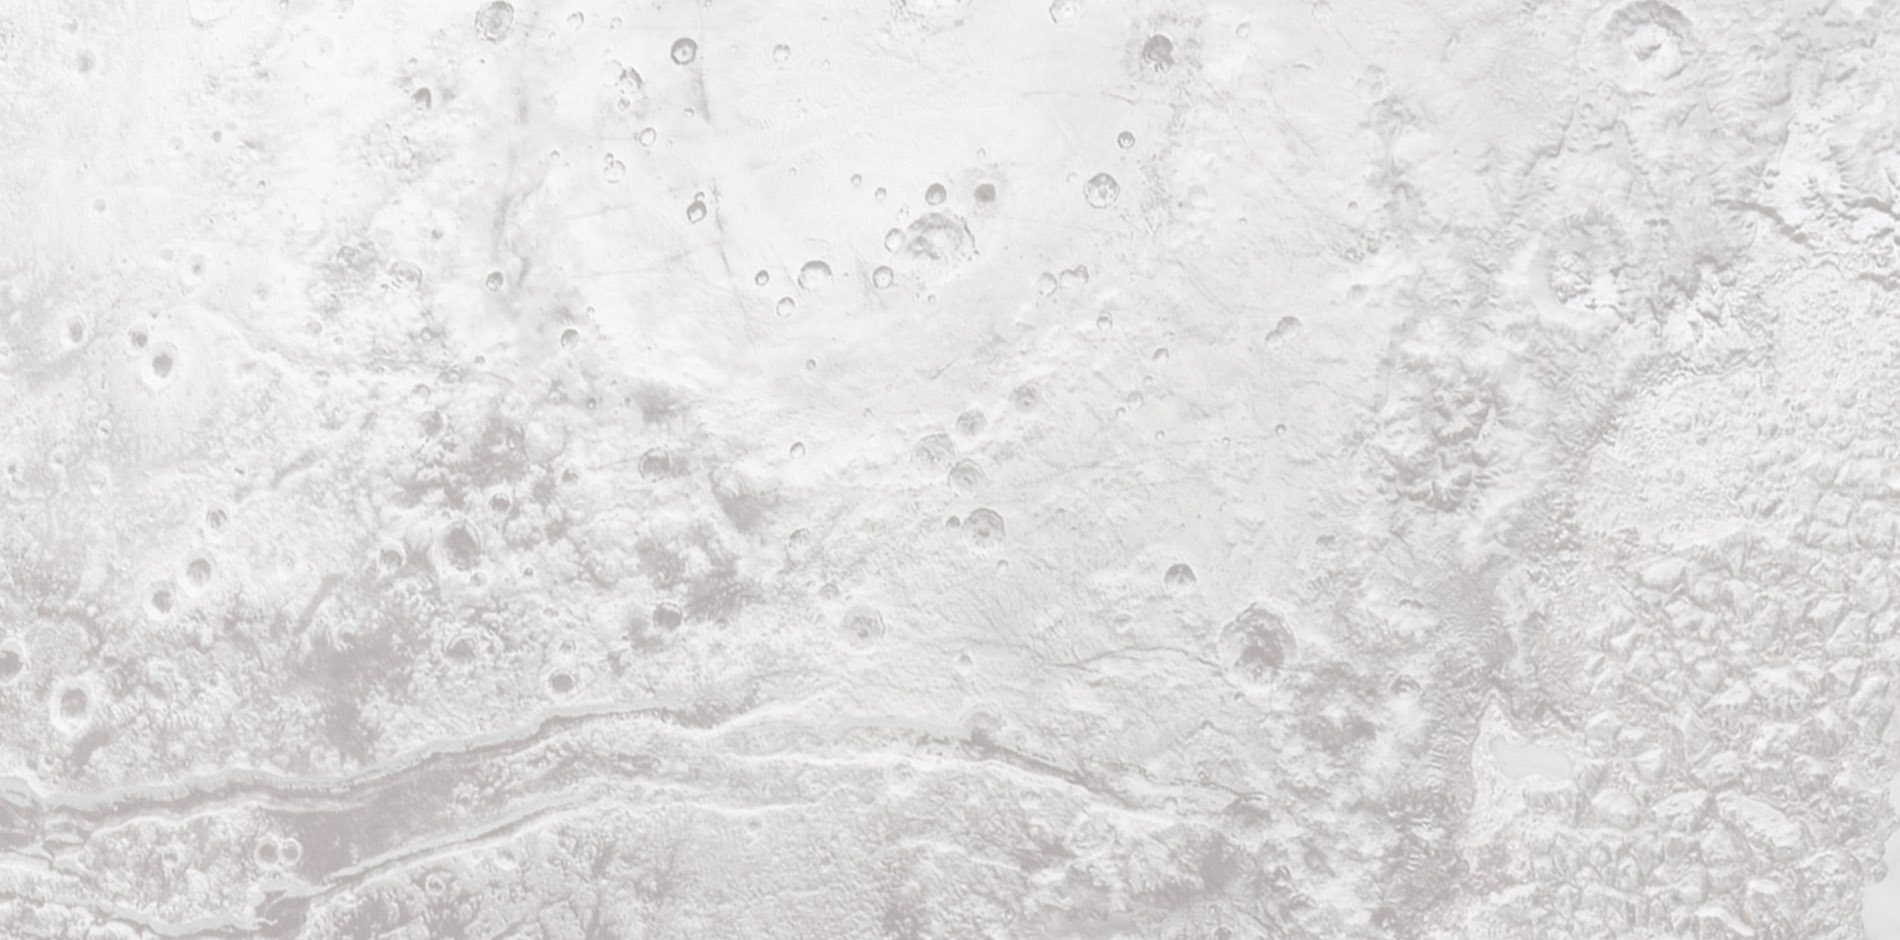
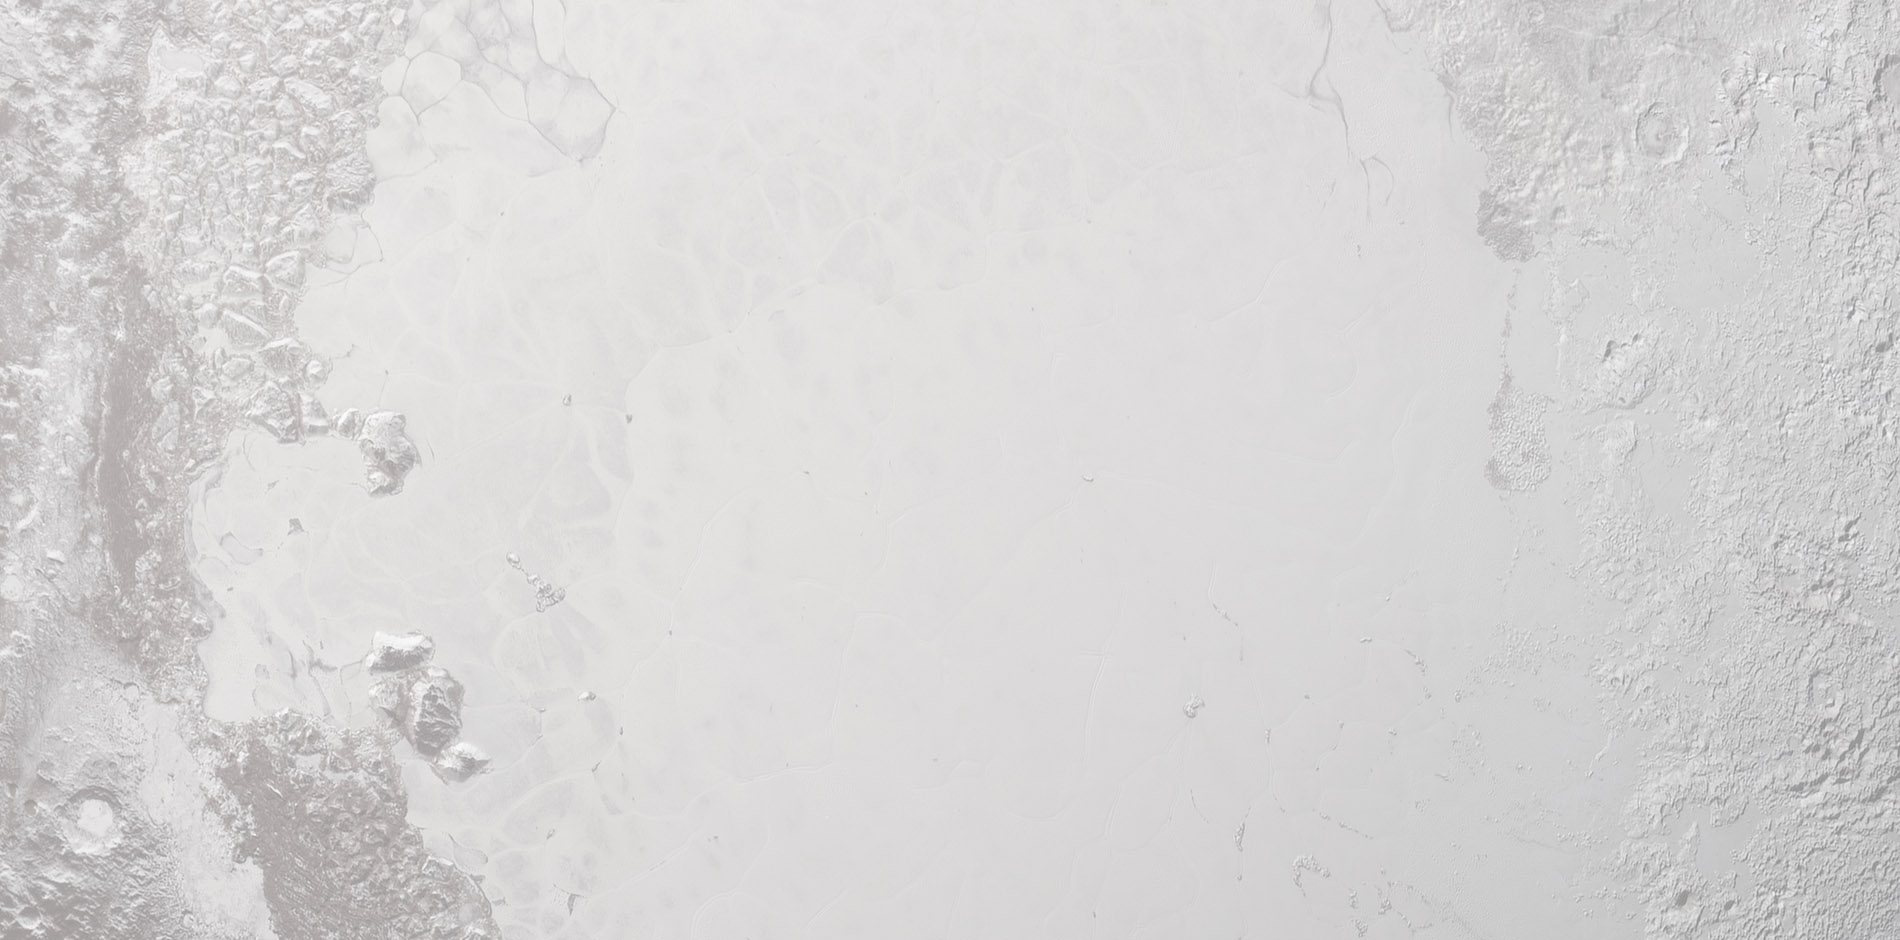
Added about, different landing background

diff --git a/css/index.css b/css/index.css
@@ -59,7 +59,7 @@ abbr[title] {
 
 b,
 strong {
-	font-weight: bold;
+	font-weight: 400;
 }
 
 dfn {
@@ -220,6 +220,9 @@ html {
 	overflow-y:scroll;
 	color: #1F1F1F;
 	font-family: 'Open Sans', sans-serif;
+	font-size: 22px;
+	line-height: 1.5em;
+	font-weight: 200;
 }
 
 html, body {
@@ -235,12 +238,34 @@ a {
 	height: 100%;
 }
 
+section {
+	position: relative;
+	box-shadow: 0px 2px 8px rgba(0, 0, 0, 0.25);
+}
+
 .pull-left {
 	float: left;
 }
 
 .pull-right {
 	float: right;
+}
+
+.img-responsive {
+	width: 100%;
+	text-align: center;
+}
+
+.img-responsive img {
+	max-width: 100%;
+}
+
+.img-shadow {
+	box-shadow: 0px 0px 7px rgba(0, 0, 0, 0.35);
+}
+
+.img-circle {
+	border-radius: 50%;
 }
 
 /*--------------------------------------------------------------
@@ -254,6 +279,7 @@ a {
 	justify-content: center;
 	background-image: url('../images/background.jpg');
 	background-size: cover;
+	z-index: 4
 }
 
 #title-wrapper {
@@ -267,9 +293,25 @@ a {
 	display: flex;
 	justify-content: space-between;
 	margin-top: 1em;
-	font-size: 2.5em;
-	font-weight: 200;
+	font-size: 2em;
 	max-width: 757px;
 	margin-left: auto;
 	margin-right: auto;
+}
+
+/*--------------------------------------------------------------
+# About Page
+--------------------------------------------------------------*/
+
+#about-page {
+	min-height: 100%;
+	background-image: url('../images/background-about.jpg');
+	background-size: cover;
+	z-index: 3;
+}
+
+#about-wrapper {
+	max-width: 1000px;
+	margin: 0 auto;
+	padding: 2em 1em;
 }
